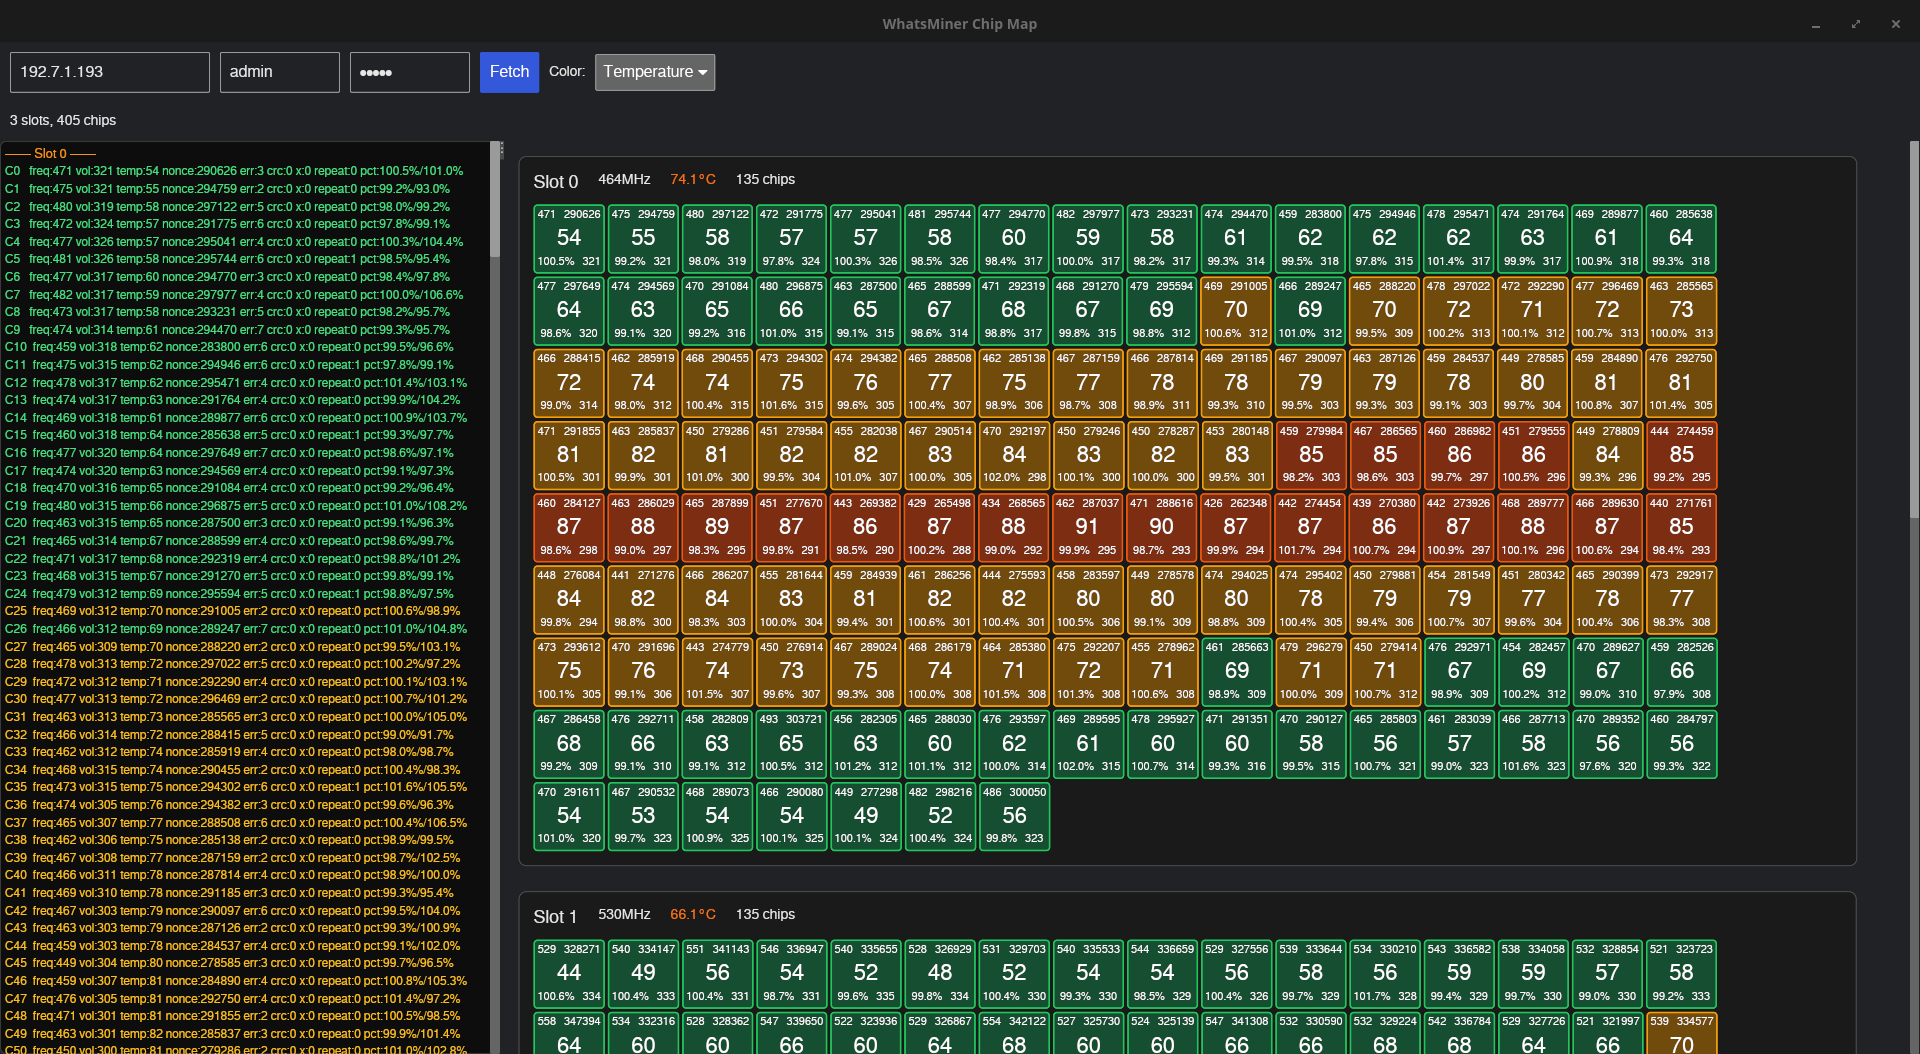
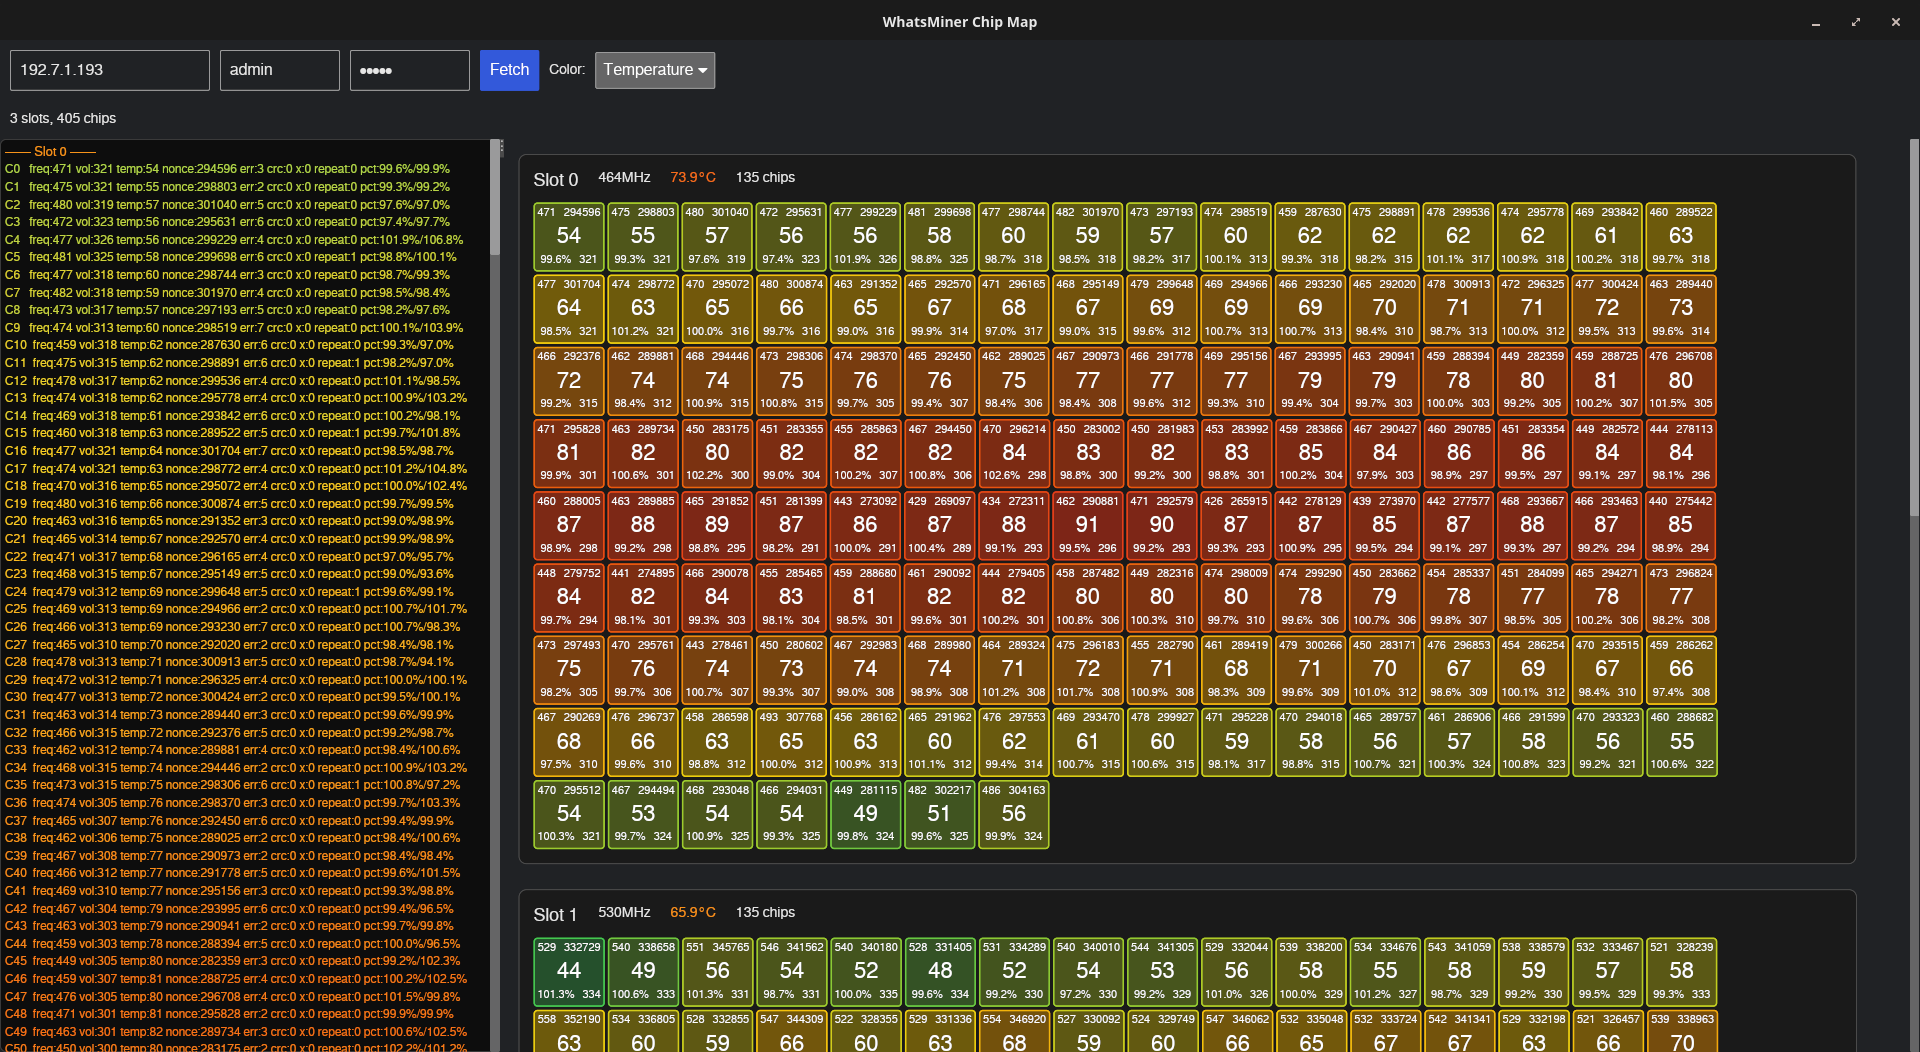
Use color gradients to better visualize the temps

diff --git a/src/theme.rs b/src/theme.rs
@@ -11,70 +11,99 @@ const BG_PANEL: Color = color!(0x1A, 0x1A, 0x1A);
 const BORDER_SUBTLE: Color = color!(0x3A, 0x3A, 0x3A);
 const BORDER_ACCENT: Color = color!(0x4A, 0x4A, 0x4A);
 
-// Temperature thresholds from WhatsMiner firmware:
-// - Chip: ft_chip_temp_warn 95-105°C, chip_temp_protect 110-120°C
-// - Board: cool_temp 30-38°C, board_temp_overheat/protect 80-90°C
-const CHIP_THRESHOLDS: [i32; 3] = [70, 85, 95]; // cool, warm, hot
-const BOARD_THRESHOLDS: [i32; 3] = [50, 65, 80];
-const ERROR_THRESHOLDS: [i32; 3] = [20, 50, 100];
-const CRC_THRESHOLDS: [i32; 3] = [1, 5, 10];
+// Gradient ranges (min, max) for each mode
+const TEMP_RANGE: (f32, f32) = (40.0, 100.0);
+const ERROR_RANGE: (f32, f32) = (0.0, 150.0);
+const CRC_RANGE: (f32, f32) = (0.0, 15.0);
 
-/// Severity level for threshold-based coloring
-#[derive(Clone, Copy)]
-enum Severity {
-    Cool,
-    Warm,
-    Hot,
-    Critical,
-}
+// Board temperature range for sidebar
+const BOARD_TEMP_RANGE: (f32, f32) = (30.0, 90.0);
 
-impl Severity {
-    fn from_value(value: i32, thresholds: [i32; 3]) -> Self {
-        match value {
-            v if v >= thresholds[2] => Self::Critical,
-            v if v >= thresholds[1] => Self::Hot,
-            v if v >= thresholds[0] => Self::Warm,
-            _ => Self::Cool,
-        }
-    }
+/// Gradient color stops: Green → Yellow → Orange → Red
+/// Each stop is (position, background, border)
+const GRADIENT_STOPS: [(f32, Color, Color); 4] = [
+    (0.0, color!(0x16, 0x4E, 0x32), color!(0x22, 0xC5, 0x5E)), // Green
+    (0.4, color!(0x71, 0x5B, 0x0B), color!(0xF5, 0xCE, 0x0B)), // Yellow
+    (0.7, color!(0x7C, 0x2D, 0x12), color!(0xEA, 0x58, 0x0C)), // Orange
+    (1.0, color!(0x7F, 0x1D, 0x1D), color!(0xDC, 0x26, 0x26)), // Red
+];
 
-    const fn text_color(self) -> Color {
-        match self {
-            Self::Cool => color!(0x4A, 0xDE, 0x80),     // Green
-            Self::Warm => color!(0xFB, 0xBF, 0x24),     // Amber
-            Self::Hot => color!(0xF9, 0x73, 0x16),      // Orange
-            Self::Critical => color!(0xEF, 0x44, 0x44), // Red
-        }
-    }
+/// Text color gradient stops
+const TEXT_GRADIENT_STOPS: [(f32, Color); 4] = [
+    (0.0, color!(0x4A, 0xDE, 0x80)), // Green
+    (0.4, color!(0xFB, 0xCF, 0x24)), // Yellow
+    (0.7, color!(0xF9, 0x73, 0x16)), // Orange
+    (1.0, color!(0xEF, 0x44, 0x44)), // Red
+];
 
-    const fn chip_colors(self) -> (Color, Color) {
-        match self {
-            Self::Cool => (color!(0x16, 0x4E, 0x32), color!(0x22, 0xC5, 0x5E)),
-            Self::Warm => (color!(0x71, 0x4B, 0x0B), color!(0xF5, 0x9E, 0x0B)),
-            Self::Hot => (color!(0x7C, 0x2D, 0x12), color!(0xEA, 0x58, 0x0C)),
-            Self::Critical => (color!(0x7F, 0x1D, 0x1D), color!(0xDC, 0x26, 0x26)),
-        }
+/// Linearly interpolate between two colors
+fn lerp_color(a: Color, b: Color, t: f32) -> Color {
+    Color {
+        r: a.r + (b.r - a.r) * t,
+        g: a.g + (b.g - a.g) * t,
+        b: a.b + (b.b - a.b) * t,
+        a: a.a + (b.a - a.a) * t,
     }
 }
 
-/// Text color for chip temperature display
+/// Normalize value to 0.0-1.0 range
+fn normalize(value: f32, min: f32, max: f32) -> f32 {
+    ((value - min) / (max - min)).clamp(0.0, 1.0)
+}
+
+/// Get gradient color pair (background, border) for normalized position
+fn gradient_colors(t: f32) -> (Color, Color) {
+    for i in 1..GRADIENT_STOPS.len() {
+        let (pos_a, bg_a, border_a) = GRADIENT_STOPS[i - 1];
+        let (pos_b, bg_b, border_b) = GRADIENT_STOPS[i];
+        if t <= pos_b {
+            let local_t = (t - pos_a) / (pos_b - pos_a);
+            return (
+                lerp_color(bg_a, bg_b, local_t),
+                lerp_color(border_a, border_b, local_t),
+            );
+        }
+    }
+    let last = GRADIENT_STOPS.last().unwrap();
+    (last.1, last.2)
+}
+
+/// Get gradient text color for normalized position
+fn gradient_text_color(t: f32) -> Color {
+    for i in 1..TEXT_GRADIENT_STOPS.len() {
+        let (pos_a, color_a) = TEXT_GRADIENT_STOPS[i - 1];
+        let (pos_b, color_b) = TEXT_GRADIENT_STOPS[i];
+        if t <= pos_b {
+            let local_t = (t - pos_a) / (pos_b - pos_a);
+            return lerp_color(color_a, color_b, local_t);
+        }
+    }
+    TEXT_GRADIENT_STOPS.last().unwrap().1
+}
+
+/// Text color for chip temperature display (gradient)
+#[allow(clippy::cast_precision_loss)] // temp values fit in f32
 pub fn color_for_chip_temp(temp: i32) -> Color {
-    Severity::from_value(temp, CHIP_THRESHOLDS).text_color()
+    let t = normalize(temp as f32, TEMP_RANGE.0, TEMP_RANGE.1);
+    gradient_text_color(t)
 }
 
-/// Text color for board temperature display
+/// Text color for board temperature display (gradient)
+#[allow(clippy::cast_possible_truncation)] // temp values fit in f32
 pub fn color_for_board_temp(temp: f64) -> Color {
-    Severity::from_value(temp as i32, BOARD_THRESHOLDS).text_color()
+    let t = normalize(temp as f32, BOARD_TEMP_RANGE.0, BOARD_TEMP_RANGE.1);
+    gradient_text_color(t)
 }
 
-/// Chip cell style based on color mode
+/// Chip cell style with gradient coloring based on mode
+#[allow(clippy::cast_precision_loss)] // small integer values fit in f32
 pub fn chip_cell(temp: i32, errors: i32, crc: i32, mode: ColorMode) -> container::Style {
-    let severity = match mode {
-        ColorMode::Temperature => Severity::from_value(temp, CHIP_THRESHOLDS),
-        ColorMode::Errors => Severity::from_value(errors, ERROR_THRESHOLDS),
-        ColorMode::Crc => Severity::from_value(crc, CRC_THRESHOLDS),
+    let t = match mode {
+        ColorMode::Temperature => normalize(temp as f32, TEMP_RANGE.0, TEMP_RANGE.1),
+        ColorMode::Errors => normalize(errors as f32, ERROR_RANGE.0, ERROR_RANGE.1),
+        ColorMode::Crc => normalize(crc as f32, CRC_RANGE.0, CRC_RANGE.1),
     };
-    let (bg, border) = severity.chip_colors();
+    let (bg, border) = gradient_colors(t);
 
     container::Style {
         text_color: Some(Color::WHITE),

diff --git a/src/main.rs b/src/main.rs
@@ -46,7 +46,7 @@ impl App {
     fn new() -> (Self, Task<Message>) {
         (
             Self {
-                ip: "192.6.8.15".into(),
+                ip: "192.7.1.193".into(),
                 user: "admin".into(),
                 pass: "admin".into(),
                 status: "Ready".into(),
